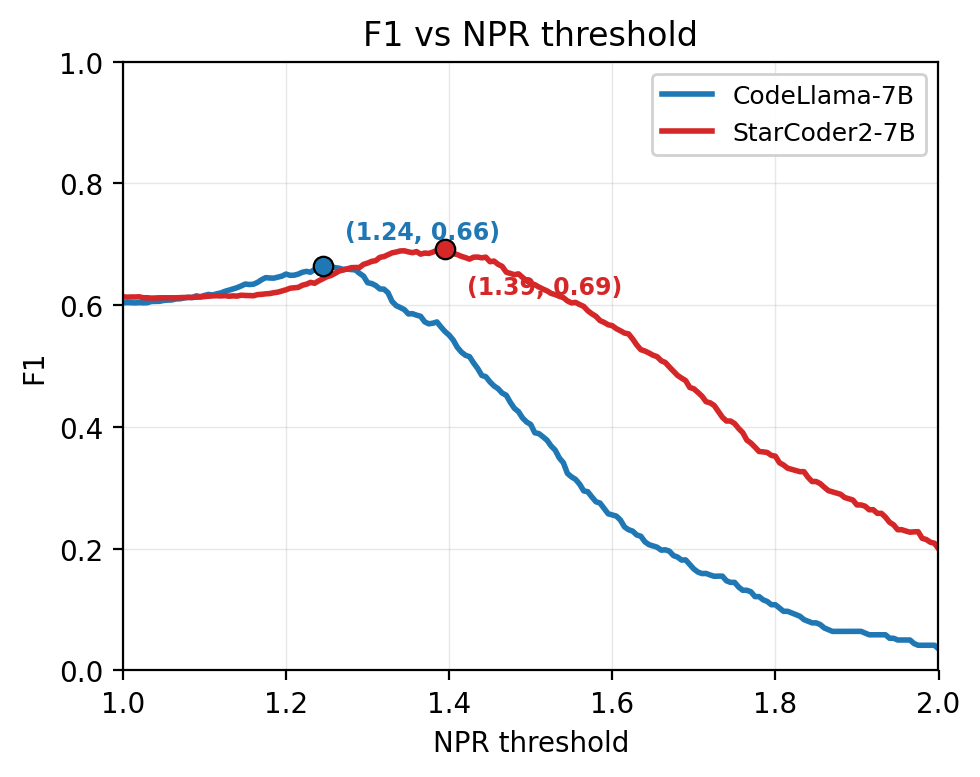
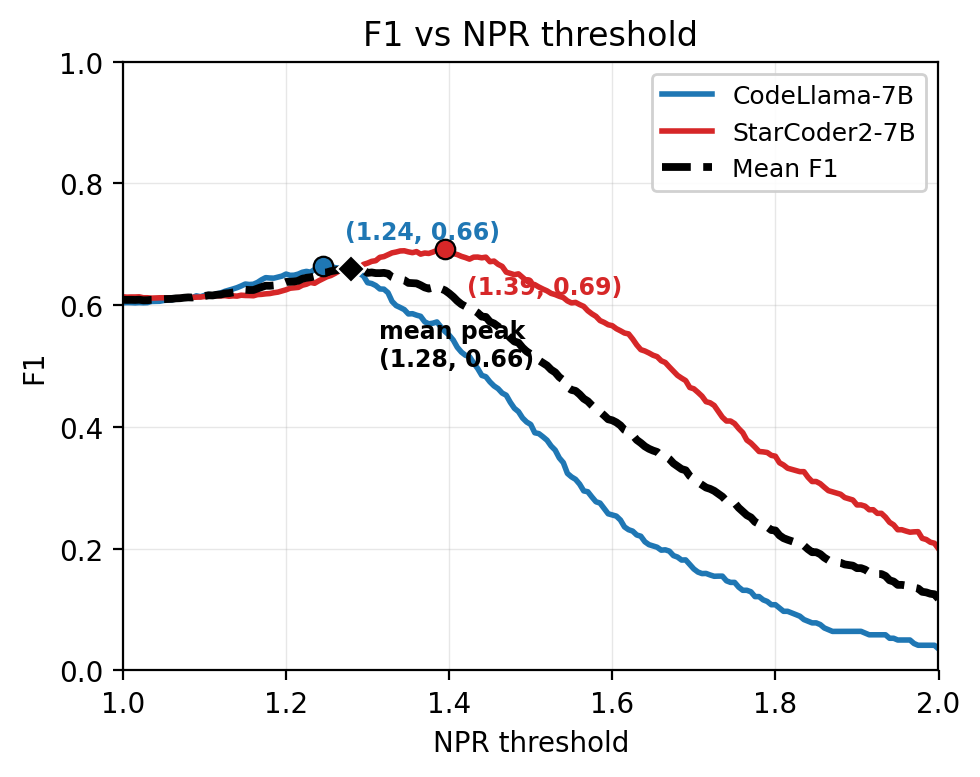
2026-05-18 03:14
Updated

diff --git a/code-detection/plot_threshold_multi_llms.py b/code-detection/plot_threshold_multi_llms.py
@@ -38,7 +38,6 @@ import numpy as np
 
 from evaluate_benchmark import (
     confusion_at_threshold,
-    is_scorable,
     load_chunks,
     metrics_from_confusion,
 )
@@ -126,25 +125,81 @@ def plot_f1_panel(
     thresholds: np.ndarray,
     label_to_color: Dict[str, str],
     show_annotations: bool,
+    show_mean: bool = True,
 ) -> None:
     for idx, (label, data) in enumerate(sweeps.items()):
         color = label_to_color[label]
         f1 = data["f1"]
         ax.plot(thresholds, f1, color=color, linewidth=2.0, label=label, zorder=2)
+
         peak_idx = int(np.argmax(f1))
         peak_t, peak_f1 = float(thresholds[peak_idx]), float(f1[peak_idx])
-        ax.plot(peak_t, peak_f1, "o", color=color, markersize=7,
-                markeredgecolor="black", markeredgewidth=0.8, zorder=3)
+
+        ax.plot(
+            peak_t, peak_f1, "o",
+            color=color,
+            markersize=7,
+            markeredgecolor="black",
+            markeredgewidth=0.8,
+            zorder=3,
+        )
+
         if show_annotations:
             offset_x, offset_y = ANNOTATION_OFFSETS[idx % len(ANNOTATION_OFFSETS)]
             ax.annotate(
                 f"({peak_t:.2f}, {peak_f1:.2f})",
                 xy=(peak_t, peak_f1),
-                xytext=(offset_x, offset_y), textcoords="offset points",
-                fontsize=8.5, color=color, weight="bold",
+                xytext=(offset_x, offset_y),
+                textcoords="offset points",
+                fontsize=8.5,
+                color=color,
+                weight="bold",
             )
-    _style_panel(ax, "NPR threshold", "F1", "F1 vs NPR threshold",
-                 (thresholds.min(), thresholds.max()))
+
+    if show_mean and len(sweeps) >= 2:
+        mean_info = compute_mean_f1_curve(sweeps, thresholds)
+        mean_f1 = mean_info["mean_f1"]
+        tau_balanced = mean_info["tau_balanced"]
+        best_mean_f1 = mean_info["best_mean_f1"]
+
+        ax.plot(
+            thresholds,
+            mean_f1,
+            color="black",
+            linewidth=2.8,
+            linestyle="--",
+            label="Mean F1",
+            zorder=4,
+        )
+
+        ax.plot(
+            tau_balanced,
+            best_mean_f1,
+            "D",
+            color="black",
+            markersize=7,
+            markeredgecolor="white",
+            markeredgewidth=0.8,
+            zorder=5,
+        )
+
+        ax.annotate(
+            f"mean peak\n({tau_balanced:.2f}, {best_mean_f1:.2f})",
+            xy=(tau_balanced, best_mean_f1),
+            xytext=(10, -35),
+            textcoords="offset points",
+            fontsize=8.5,
+            color="black",
+            weight="bold",
+        )
+
+    _style_panel(
+        ax,
+        "NPR threshold",
+        "F1",
+        "F1 vs NPR threshold",
+        (thresholds.min(), thresholds.max()),
+    )
     ax.legend(loc="best", fontsize=9, framealpha=0.9)
 
 
@@ -242,7 +297,14 @@ def save_one_panel(
 ) -> None:
     fig, ax = plt.subplots(1, 1, figsize=figsize)
     if metric == "f1":
-        plot_f1_panel(ax, sweeps, thresholds, label_to_color, show_annotations)
+        plot_f1_panel(
+            ax,
+            sweeps,
+            thresholds,
+            label_to_color,
+            show_annotations,
+            show_mean=True,
+        )
     elif metric == "precision":
         plot_precision_panel(ax, sweeps, thresholds, label_to_color, high_precision_target)
     elif metric == "recall":
@@ -257,6 +319,57 @@ def save_one_panel(
     plt.close(fig)
     print(f"  wrote {output_path}")
 
+
+def compute_mean_f1_curve(
+    sweeps: Dict[str, Dict],
+    thresholds: np.ndarray,
+) -> Dict[str, object]:
+    """Compute the balanced cross-LLM operating point.
+
+    Each LLM receives equal weight, regardless of chunk count.
+    """
+    f1_curves = np.vstack([data["f1"] for data in sweeps.values()])
+    precision_curves = np.vstack([data["precision"] for data in sweeps.values()])
+    recall_curves = np.vstack([data["recall"] for data in sweeps.values()])
+
+    mean_f1 = np.mean(f1_curves, axis=0)
+    mean_precision = np.mean(precision_curves, axis=0)
+    mean_recall = np.mean(recall_curves, axis=0)
+
+    best_idx = int(np.argmax(mean_f1))
+
+    return {
+        "mean_f1": mean_f1,
+        "mean_precision": mean_precision,
+        "mean_recall": mean_recall,
+        "best_idx": best_idx,
+        "tau_balanced": float(thresholds[best_idx]),
+        "best_mean_f1": float(mean_f1[best_idx]),
+        "mean_precision_at_tau": float(mean_precision[best_idx]),
+        "mean_recall_at_tau": float(mean_recall[best_idx]),
+    }
+    
+    
+def compute_cross_llm_high_precision_threshold(
+    sweeps: Dict[str, Dict],
+    thresholds: np.ndarray,
+    target: float,
+) -> Optional[Dict[str, object]]:
+    """Find the lowest threshold where every LLM reaches precision >= target."""
+    precision_curves = np.vstack([data["precision"] for data in sweeps.values()])
+    min_precision = np.min(precision_curves, axis=0)
+
+    valid = np.where(min_precision >= target)[0]
+    if valid.size == 0:
+        return None
+
+    hp_idx = int(valid[0])
+    return {
+        "hp_idx": hp_idx,
+        "tau_hp_cross_llm": float(thresholds[hp_idx]),
+        "min_precision": float(min_precision[hp_idx]),
+    }
+        
 
 # -----------------------------------------------------------------------------
 # Main pipeline
@@ -354,6 +467,61 @@ def main() -> None:
             hp_t = hp_p = hp_r = float("nan")
         print(f"  {label:<24}  {peak_f1:>8.4f}  {peak_t:>6.3f}  {hp_t:>6.3f}  "
               f"{hp_p:>6.3f}  {hp_r:>6.3f}")
+
+    if len(sweeps) >= 2:
+        mean_info = compute_mean_f1_curve(sweeps, thresholds)
+        idx = mean_info["best_idx"]
+
+        print()
+        print("=" * 78)
+        print("Cross-LLM balanced operating point")
+        print("=" * 78)
+        print(f"  τ_balanced = {mean_info['tau_balanced']:.3f}")
+        print(f"  mean F1    = {mean_info['best_mean_f1']:.4f}")
+        print(f"  mean P     = {mean_info['mean_precision_at_tau']:.4f}")
+        print(f"  mean R     = {mean_info['mean_recall_at_tau']:.4f}")
+
+        print()
+        print("  Per-LLM metrics at τ_balanced:")
+        print(f"    {'LLM':<24}  {'P':>8}  {'R':>8}  {'F1':>8}")
+        print("    " + "-" * 50)
+
+        for label, data in sweeps.items():
+            print(
+                f"    {label:<24}  "
+                f"{data['precision'][idx]:>8.4f}  "
+                f"{data['recall'][idx]:>8.4f}  "
+                f"{data['f1'][idx]:>8.4f}"
+            )
+
+    if args.high_precision_target is not None and len(sweeps) >= 2:
+        hp_info = compute_cross_llm_high_precision_threshold(
+            sweeps,
+            thresholds,
+            args.high_precision_target,
+        )
+
+        print()
+        print("=" * 78)
+        print(f"Cross-LLM high-precision operating point "
+            f"(P >= {args.high_precision_target:.2f})")
+        print("=" * 78)
+
+        if hp_info is None:
+            print("  No threshold satisfies the precision floor for all LLMs.")
+        else:
+            idx = hp_info["hp_idx"]
+            print(f"  τ_HP,cross = {hp_info['tau_hp_cross_llm']:.3f}")
+            print(f"  min P      = {hp_info['min_precision']:.4f}")
+
+            print()
+            print("  Per-LLM precision/recall at τ_HP,cross:")
+            for label, data in sweeps.items():
+                print(
+                    f"    {label:<24} "
+                    f"P = {data['precision'][idx]:.4f}, "
+                    f"R = {data['recall'][idx]:.4f}"
+                )
 
 
 if __name__ == "__main__":
